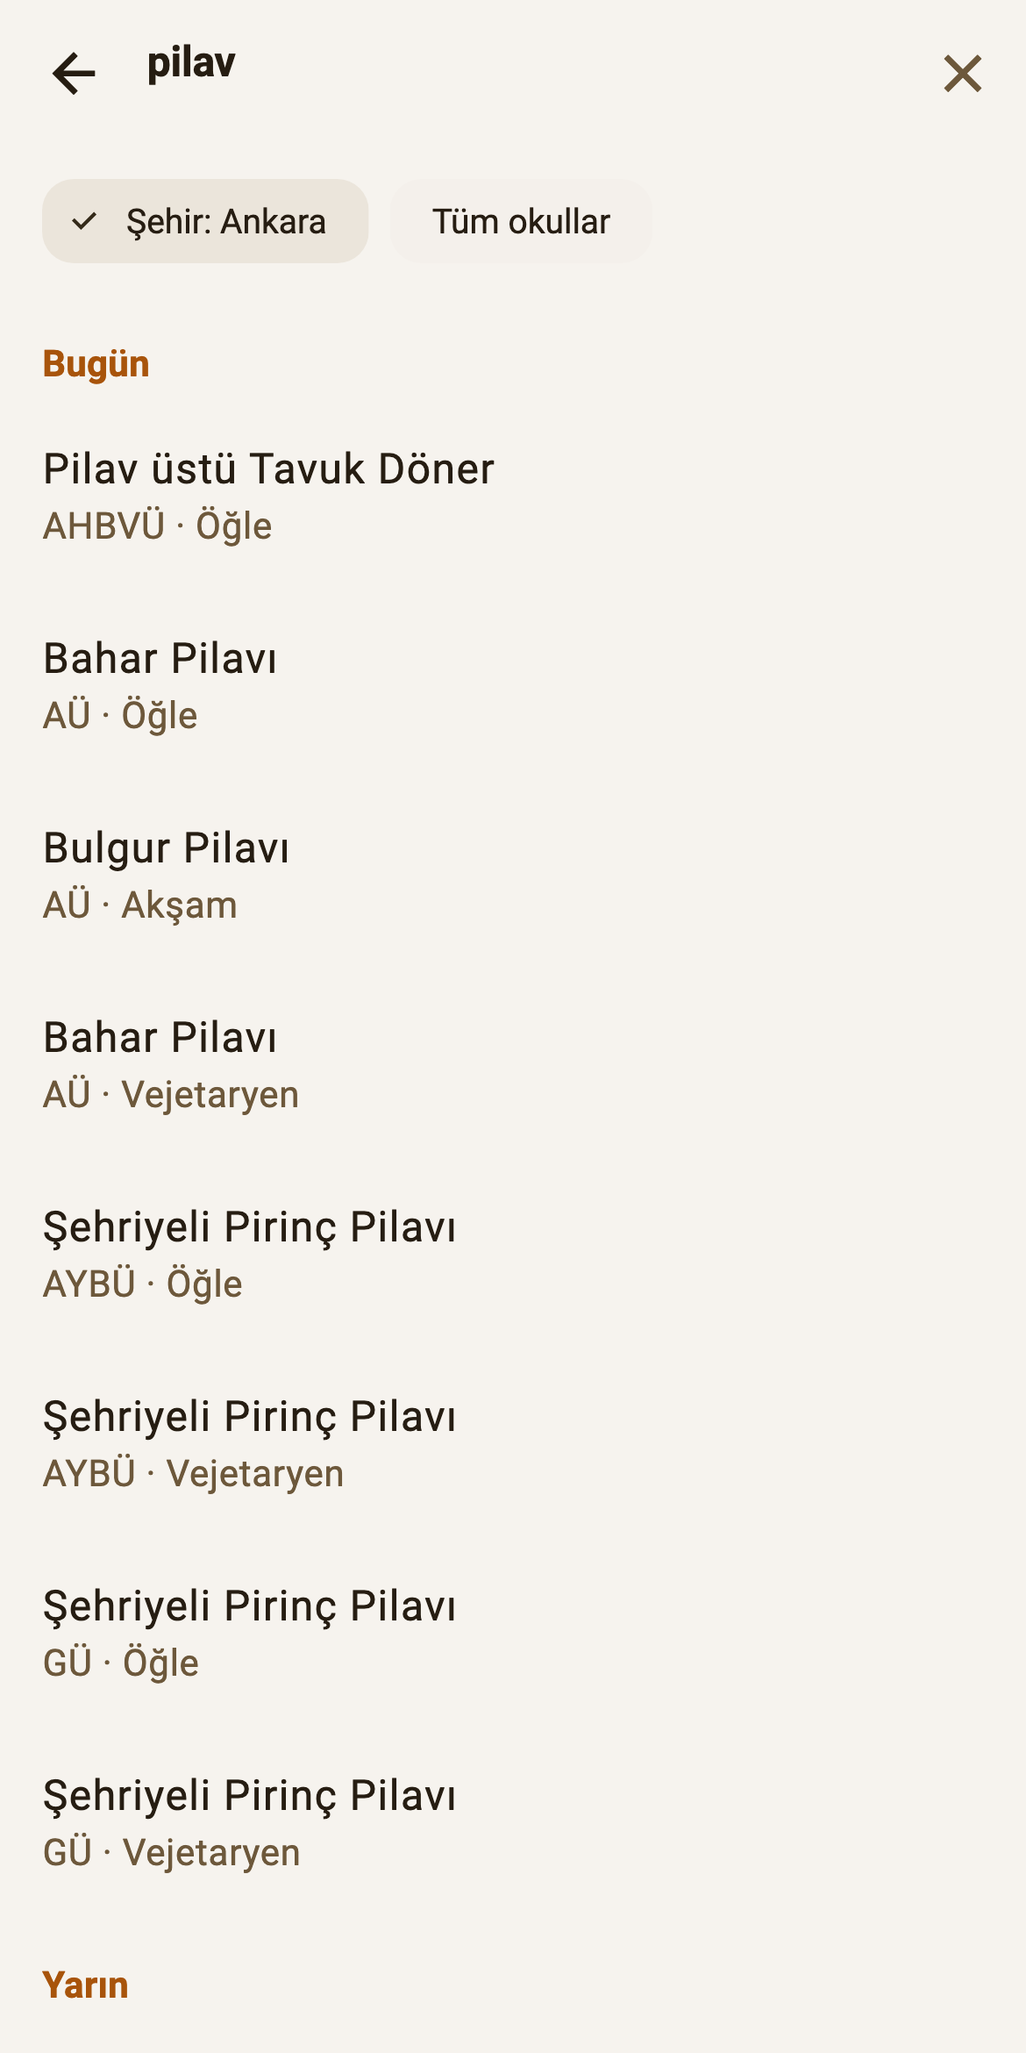
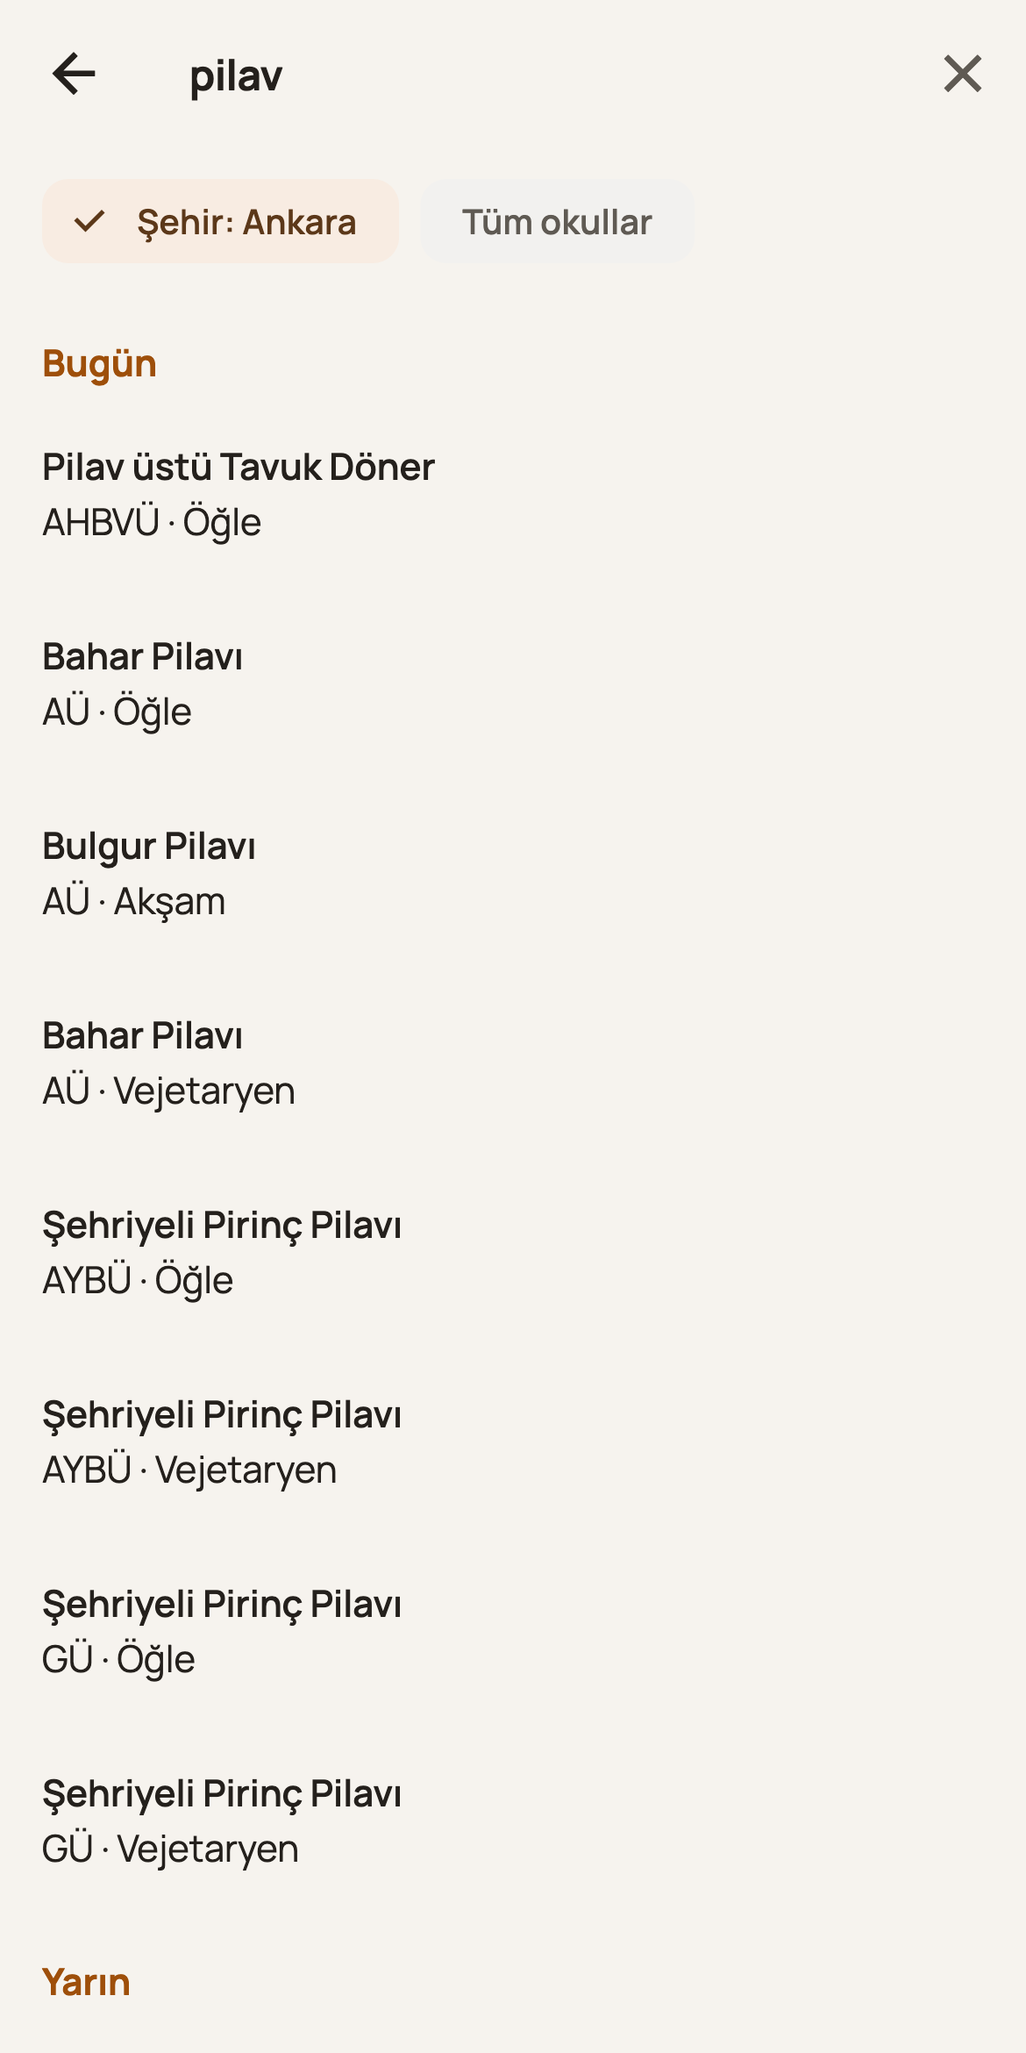
Son cila: tema imzası uygulamada, mağaza görselleri yeni temayla (deneme notu olmadan), metinler güncellendi

diff --git a/app/test/tema_imza_uygulama_test.dart b/app/test/tema_imza_uygulama_test.dart
@@ -1,0 +1,116 @@
+import 'package:flutter/material.dart';
+import 'package:flutter_test/flutter_test.dart';
+import 'package:yemekhane/models.dart';
+import 'package:yemekhane/tema.dart';
+import 'package:yemekhane/widgets/durum_ekranlari.dart';
+import 'package:yemekhane/widgets/gun_secici.dart';
+import 'package:yemekhane/widgets/ogun_karti.dart';
+
+Widget sar(ThemeData t, Widget c, {double olcek = 1}) => MaterialApp(
+      theme: t,
+      home: MediaQuery(
+        data: MediaQueryData(textScaler: TextScaler.linear(olcek)),
+        child: Scaffold(body: c),
+      ),
+    );
+
+const _modlar = [
+  (Brightness.light, false),
+  (Brightness.dark, false),
+  (Brightness.dark, true),
+];
+
+void main() {
+  testWidgets('GunBasligi: imza simgesi görünür, semantik ağacın dışında',
+      (tester) async {
+    final palet = temaRengiBul('ask');
+    await tester.pumpWidget(sar(
+        temaUret(palet, Brightness.light),
+        GunBasligi(
+            tarihler: const ['2026-11-08', '2026-11-09'],
+            secili: '2026-11-08',
+            bugun: '2026-11-08',
+            degisti: (_) {})));
+    final f = find.byKey(const ValueKey('gun-imza'));
+    expect(f, findsOneWidget);
+    expect(tester.widget<Icon>(f).icon, Icons.favorite_rounded);
+    expect(find.ancestor(of: f, matching: find.byType(ExcludeSemantics)),
+        findsWidgets);
+  });
+
+  testWidgets('GunBasligi 320 px ve 2x yazıda taşmaz', (tester) async {
+    tester.view.physicalSize = const Size(320, 640);
+    tester.view.devicePixelRatio = 1;
+    addTearDown(tester.view.reset);
+    for (final p in temaRenkleri) {
+      await tester.pumpWidget(sar(
+          temaUret(p, Brightness.light),
+          GunBasligi(
+              tarihler: const ['2026-11-08', '2026-11-09'],
+              secili: '2026-11-09',
+              bugun: '2026-11-08',
+              degisti: (_) {}),
+          olcek: 2));
+      expect(tester.takeException(), isNull, reason: p.kimlik);
+    }
+  });
+
+  testWidgets('YemekYok özel temada degrade zemin kullanır', (tester) async {
+    for (final p in temaRenkleri) {
+      await tester.pumpWidget(sar(temaUret(p, Brightness.light),
+          const YemekYok(baslik: 'Menü yok', alt: 'Alt', ikon: Icons.event)));
+      await tester.pumpAndSettle();
+      final kap = tester
+          .widgetList<Container>(find.byType(Container))
+          .map((c) => c.decoration)
+          .whereType<BoxDecoration>()
+          .where((d) => d.shape == BoxShape.circle)
+          .first;
+      expect(kap.gradient != null, p.ozel, reason: p.kimlik);
+    }
+  });
+
+  testWidgets('OgunOzeti özel temada degrade, 320 px ve 2x yazıda taşmaz',
+      (tester) async {
+    tester.view.physicalSize = const Size(320, 640);
+    tester.view.devicePixelRatio = 1;
+    addTearDown(tester.view.reset);
+    for (final p in temaRenkleri) {
+      await tester.pumpWidget(sar(
+          temaUret(p, Brightness.dark),
+          const SingleChildScrollView(
+              child: OgunOzeti(
+                  kcal: 850,
+                  fiyat: 45,
+                  hedef: 2200,
+                  ogleAksamKcal: 1500,
+                  saat: ServisSaati('11:30-14:00', false))),
+          olcek: 2));
+      await tester.pumpAndSettle();
+      expect(tester.takeException(), isNull, reason: p.kimlik);
+      final d = tester
+          .widgetList<Container>(find.byType(Container))
+          .map((c) => c.decoration)
+          .whereType<BoxDecoration>()
+          .firstWhere((d) => d.borderRadius == BorderRadius.circular(20));
+      expect(d.gradient != null, p.ozel, reason: p.kimlik);
+    }
+  });
+
+  test('imza yazı rengi, zemin ve degrade uçlarında AA (13 tema x 3 mod)', () {
+    for (final p in temaRenkleri) {
+      for (final (mod, siyah) in _modlar) {
+        final t = temaUret(p, mod, amoled: siyah);
+        final imza = t.extension<TemaImzasi>()!;
+        final uclar = <Color>[
+          imza.zemin,
+          ...?imza.degrade?.colors,
+        ];
+        for (final u in uclar) {
+          expect(kontrastOrani(imza.zeminUstu, u), greaterThanOrEqualTo(4.5),
+              reason: '${p.kimlik} $mod siyah=$siyah');
+        }
+      }
+    }
+  });
+}

diff --git a/app/tool/magaza_ekranlari_test.dart b/app/tool/magaza_ekranlari_test.dart
@@ -48,6 +48,13 @@ File? _yerelDosya(Uri adres) {
   return f.existsSync() ? f : null;
 }
 
+/// Mağaza görüntülerinde "Deneme modu" notu görünmesin: yerel depo, ama çevrimiçi gibi davranır.
+/// Uydurma puan ya da yorum göstermez (ekranda "Henüz oy yok" görünür).
+class _MagazaDepo extends YerelDepo {
+  @override
+  bool get cevrimici => true;
+}
+
 class _Cevap extends Stream<List<int>> implements HttpClientResponse {
   _Cevap(this._bayt, this.statusCode);
   final Uint8List _bayt;
@@ -118,6 +125,11 @@ Future<void> _fontlariYukle() async {
     ..addFont(Future.value(ByteData.sublistView(
         File('$_fontlar/MaterialIcons-Regular.otf').readAsBytesSync())));
   await ikon.load();
+  // uygulamanın kendi yazı tipi (Manrope); testte rootBundle yerine doğrudan dosyadan yüklenir
+  final manrope = FontLoader('Manrope')
+    ..addFont(Future.value(ByteData.sublistView(
+        File('assets/fonts/Manrope-Variable.ttf').readAsBytesSync())));
+  await manrope.load();
 }
 
 /// Ağdan gelmesi gereken her şey (menü, fotoğraf) yerel ../data dosyalarından.
@@ -154,11 +166,13 @@ Future<void> _kaydet(WidgetTester t, String ad) async {
   });
 }
 
-Future<void> _ac(WidgetTester t, {required bool koyu, Widget? ana}) async {
+Future<void> _ac(WidgetTester t,
+    {required bool koyu, Widget? ana, String palet = 'safran'}) async {
   t.view.physicalSize = const Size(390, 780);
   t.view.devicePixelRatio = 1;
   _kok = GlobalKey();
-  final ayar = TemaAyari(mod: koyu ? ThemeMode.dark : ThemeMode.light);
+  final ayar = TemaAyari(
+      mod: koyu ? ThemeMode.dark : ThemeMode.light, renk: temaRengiBul(palet));
   final depo = Depo(istemci: _yerelIstemci());
   await depo.universiteSec('ankara');
   final favoriler = FavoriDeposu();
@@ -172,7 +186,7 @@ Future<void> _ac(WidgetTester t, {required bool koyu, Widget? ana}) async {
               AnaSayfa(
                   temaAyari: ayar,
                   depo: depo,
-                  geriBildirim: YerelDepo(),
+                  geriBildirim: _MagazaDepo(),
                   favoriler: favoriler,
                   kaloriHedefi: KaloriHedefi(),
                   simdi: () => DateTime.utc(2026, 11, 4, 11, 20)))));
@@ -229,10 +243,12 @@ void main() {
     await _kaydet(t, '04-haftalik-menu');
   });
 
-  testWidgets('05 tema (koyu)', (t) async {
-    await _ac(t, koyu: true);
+  testWidgets('05 tema seçici (özel temalar)', (t) async {
+    await _ac(t, koyu: false, palet: 'ask');
     await _menuden(t, 'Tema');
-    await _kaydet(t, '05-tema-secici-koyu');
+    await t.ensureVisible(find.text('Özel temalar'));
+    await _bekle(t, 4);
+    await _kaydet(t, '05-tema-secici-ozel');
   });
 
   testWidgets('06 ayarlar', (t) async {
@@ -242,7 +258,7 @@ void main() {
   });
 
   testWidgets('07 ana ekran koyu', (t) async {
-    await _ac(t, koyu: true);
-    await _kaydet(t, '07-ana-ekran-koyu');
+    await _ac(t, koyu: true, palet: 'gece_yarisi');
+    await _kaydet(t, '07-ana-ekran-gece-yarisi');
   });
 }

diff --git a/app/tool/magaza_gorseli_test.dart b/app/tool/magaza_gorseli_test.dart
@@ -1,7 +1,7 @@
 // Google Play 1024x500 öne çıkan görsel üreticisi. `flutter test` bunu çalıştırmaz (tool/ klasörü); yenilemek için
 // app klasöründe: ~/development/flutter/bin/flutter test tool/magaza_gorseli_test.dart
 // Safran zemin, uygulama ikonu (web/icons/Icon-512.png, tool/ikon_uret_test.dart üretir), ad ve slogan.
-// Test ortamının varsayılan yazı tipi (Ahem) kutu çizdiğinden Roboto, Flutter önbelleğindeki dosyalardan yüklenir.
+// Test ortamının varsayılan yazı tipi (Ahem) kutu çizdiğinden Manrope uygulama varlıklarından dosyalardan yüklenir.
 // Çıktı: ../magaza/gorseller/one-cikan-gorsel-1024x500.png
 import 'dart:io';
 import 'dart:ui' as ui;
@@ -13,9 +13,6 @@ import 'package:yemekhane/tema.dart';
 
 import 'opak_png.dart';
 
-final _fontlar =
-    '${Platform.environment['HOME']}/development/flutter/bin/cache/artifacts/material_fonts';
-
 Color _ton(double ton, double doygunluk, double aciklik) =>
     HSLColor.fromAHSL(1, ton % 360, doygunluk, aciklik).toColor();
 
@@ -25,7 +22,7 @@ void _yaz(Canvas c, String metin, Offset yer, double boyut, FontWeight kalinlik,
       text: TextSpan(
           text: metin,
           style: TextStyle(
-              fontFamily: 'Roboto',
+              fontFamily: 'Manrope',
               fontSize: boyut,
               fontWeight: kalinlik,
               color: renk,
@@ -37,12 +34,11 @@ void _yaz(Canvas c, String metin, Offset yer, double boyut, FontWeight kalinlik,
 
 void main() {
   testWidgets('öne çıkan görsel 1024x500', (t) async {
-    final roboto = FontLoader('Roboto');
-    for (final ad in ['Regular', 'Medium', 'Bold']) {
-      roboto.addFont(Future.value(ByteData.sublistView(
-          File('$_fontlar/Roboto-$ad.ttf').readAsBytesSync())));
-    }
-    await roboto.load();
+    // uygulamanın kendi yazı tipi (Manrope)
+    final manrope = FontLoader('Manrope')
+      ..addFont(Future.value(ByteData.sublistView(
+          File('assets/fonts/Manrope-Variable.ttf').readAsBytesSync())));
+    await manrope.load();
     await t.runAsync(() async {
       final palet = temaRenkleri.first;
       final marka = _ton(palet.ton, palet.doygunluk, 0.50);

diff --git a/app/lib/widgets/gun_secici.dart b/app/lib/widgets/gun_secici.dart
@@ -4,6 +4,7 @@ import 'package:flutter/material.dart';
 
 import '../config.dart';
 import '../favoriler.dart' show favoriGunEtiketi;
+import '../tema.dart' show TemaImzasi;
 
 /// Üstte büyük "Bugün / Cuma" başlığı, altında tek satırlık tarih ("2 Ekim 2026 · Cuma") ve yanlarda önceki /
 /// sonraki gün okları. Dar ekranda (320 dp) ya da büyük yazıda iki satır da sarmaz, sığacak kadar küçülür;
@@ -36,10 +37,20 @@ class GunBasligi extends StatelessWidget {
             FittedBox(
               fit: BoxFit.scaleDown,
               // "Bugün" / "Yarın" / gün adı; fark UTC takvim günleriyle hesaplanır (yaz saati geçişinde sapmaz)
-              child: Text(favoriGunEtiketi(secili, bugun),
-                  maxLines: 1,
-                  style: tema.textTheme.headlineSmall
-                      ?.copyWith(fontWeight: FontWeight.w800)),
+              child: Row(mainAxisSize: MainAxisSize.min, children: [
+                // temanın küçük imzası: süs, ekran okuyucuya görünmez
+                ExcludeSemantics(
+                  child: Icon(TemaImzasi.of(context).simge,
+                      key: const ValueKey('gun-imza'),
+                      size: 20,
+                      color: TemaImzasi.of(context).renk),
+                ),
+                const SizedBox(width: 8),
+                Text(favoriGunEtiketi(secili, bugun),
+                    maxLines: 1,
+                    style: tema.textTheme.headlineSmall
+                        ?.copyWith(fontWeight: FontWeight.w800)),
+              ]),
             ),
             FittedBox(
               fit: BoxFit.scaleDown,

diff --git a/app/lib/widgets/ogun_karti.dart b/app/lib/widgets/ogun_karti.dart
@@ -4,6 +4,7 @@ import '../favoriler.dart';
 import '../geri_bildirim.dart';
 import '../kalori_hedefi.dart';
 import '../models.dart';
+import '../tema.dart' show TemaImzasi;
 import '../reklam/reklam_karti.dart';
 import '../reklam/reklam_yoneticisi.dart';
 import '../reklam/uzak_ayar.dart' show yerlesimAna;
@@ -423,7 +424,8 @@ class OgunOzeti extends StatelessWidget {
       return const SizedBox.shrink();
     }
     final tema = Theme.of(context);
-    final on = tema.colorScheme.onPrimaryContainer;
+    final imza = TemaImzasi.of(context);
+    final on = imza.zeminUstu;
     final hedefli = hedef != null && hedef! > 0 && (kcal ?? 0) > 0;
     Widget kucuk(IconData ikon, String metin) =>
         Row(mainAxisSize: MainAxisSize.min, children: [
@@ -440,7 +442,8 @@ class OgunOzeti extends StatelessWidget {
       margin: const EdgeInsets.only(bottom: 4),
       padding: const EdgeInsets.all(16),
       decoration: BoxDecoration(
-          color: tema.colorScheme.primaryContainer,
+          color: imza.zemin,
+          gradient: imza.degrade,
           borderRadius: BorderRadius.circular(20)),
       child: Column(crossAxisAlignment: CrossAxisAlignment.start, children: [
         if (kcal != null)

diff --git a/app/lib/widgets/durum_ekranlari.dart b/app/lib/widgets/durum_ekranlari.dart
@@ -1,6 +1,7 @@
 import 'package:flutter/material.dart';
 
 import '../models.dart';
+import '../tema.dart' show TemaImzasi;
 import 'ogun_bilgi.dart';
 
 /// Yemek verilmeyen gün / öğün için sade bilgi ekranı.
@@ -13,6 +14,7 @@ class YemekYok extends StatelessWidget {
   @override
   Widget build(BuildContext context) {
     final tema = Theme.of(context);
+    final imza = TemaImzasi.of(context);
     return ListView(
       // kısa içerikte de aşağı çekip yenilenebilsin
       physics: const AlwaysScrollableScrollPhysics(),
@@ -24,9 +26,9 @@ class YemekYok extends StatelessWidget {
             height: 112,
             decoration: BoxDecoration(
                 shape: BoxShape.circle,
-                color: tema.colorScheme.primaryContainer),
-            child: Icon(ikon,
-                size: 52, color: tema.colorScheme.onPrimaryContainer),
+                color: imza.degrade == null ? imza.zemin : null,
+                gradient: imza.degrade),
+            child: Icon(ikon, size: 52, color: imza.zeminUstu),
           ),
         ),
         const SizedBox(height: 24),

diff --git a/magaza/LISTE.md b/magaza/LISTE.md
@@ -45,7 +45,7 @@ PUAN VE YORUM
 • Başkasının yorumunu ve yazarını bildir ya da kişiyi engelle; yorum ve puanlarını tek dokunuşla sil
 
 KİŞİSELLEŞTİR
-• Açık, koyu ve siyah tema; 8 renk paleti
+• Açık, koyu ve siyah mod; 13 tema: 8 temel renk paleti ve Aşk, Lokum, Kahve, Bahar, Gece Yarısı gibi özel temalar (her birinin kendi küçük simgesi var)
 • İsteğe bağlı günlük kalori hedefi: öğünün hedefine oranını gösterir
 • İsteğe bağlı günlük menü bildirimi (varsayılan kapalı, saatini sen seçersin)
 
@@ -58,7 +58,7 @@ Uygulama ücretsizdir ve reklam içerir: ana ekranda öğün kartının altında
 Okulun listede yok mu? Tanıtım sitesindeki yorumlardan iste.
 ```
 
-Karakter sayımı (8 Kasım 2026): kısa açıklama 78/80; tam açıklama 4000 sınırının çok altında. Eklemeden önce denetle: "8 renk paleti", "Siyah tema", "tüm okullar araması", "bildirim" ve "paylaş" özelliklerinin sürümde olduğu doğrulandı (kod ve testler). Okul sayısı bilerek yazılmadı: liste büyüyor.
+Karakter sayımı (8 Kasım 2026): kısa açıklama 78/80; tam açıklama 4000 sınırının çok altında. Eklemeden önce denetle: "13 tema", "Siyah mod", "tüm okullar araması", "bildirim" ve "paylaş" özelliklerinin sürümde olduğu doğrulandı (kod ve testler). Okul sayısı bilerek yazılmadı: liste büyüyor.
 
 ## Görseller (magaza/ klasöründe)
 
@@ -68,7 +68,7 @@ Karakter sayımı (8 Kasım 2026): kısa açıklama 78/80; tam açıklama 4000 s
 | Öne çıkan görsel | `gorseller/one-cikan-gorsel-1024x500.png` | 1024x500, alfasız 24 bit PNG |
 | Telefon ekran görüntüleri (en az 2, en çok 8) | `ekranlar/01-...` ile `07-...` | 1170x2340 (oran 2:1), alfasız 24 bit PNG |
 
-Ekran görüntüleri ve öne çıkan görsel **alfa kanalsız 24 bit PNG** (RGB, IHDR renk tipi 2) olmalıdır; Google bu alanlarda JPEG ya da alfasız 24 bit PNG ister (https://support.google.com/googleplay/android-developer/answer/9866151). Üreticiler (`app/tool/magaza_ekranlari_test.dart`, `app/tool/magaza_gorseli_test.dart`) artık beyaz opak zemine birleştirilmiş RGB yazar (`app/tool/opak_png.dart`); `app/test/yayin_duzeltme_test.dart` bütün mağaza PNG'lerinin renk tipini denetler. Simge (`ikon-512x512.png`) 32 bit PNG olabilir (alfa serbest). Ekran görüntüleri gerçek uygulamanın gerçek verisiyle (Ankara Üniversitesi, 4 Kasım 2026 menüsü) çizildi; `app/tool/magaza_ekranlari_test.dart` ile yeniden üretilir. Her kenar 320-3840 px ve uzun kenar kısa kenarın en çok 2 katı olmalı: 1170x2340 tam 2:1 olduğu için sınırda ve geçerli. Önerilen sıra: 01 ana ekran, 02 yemek ayrıntısı, 04 haftalık menü, 03 yemek arama, 07 ana ekran (koyu), 05 tema, 06 ayarlar.
+Ekran görüntüleri ve öne çıkan görsel **alfa kanalsız 24 bit PNG** (RGB, IHDR renk tipi 2) olmalıdır; Google bu alanlarda JPEG ya da alfasız 24 bit PNG ister (https://support.google.com/googleplay/android-developer/answer/9866151). Üreticiler (`app/tool/magaza_ekranlari_test.dart`, `app/tool/magaza_gorseli_test.dart`) artık beyaz opak zemine birleştirilmiş RGB yazar (`app/tool/opak_png.dart`); `app/test/yayin_duzeltme_test.dart` bütün mağaza PNG'lerinin renk tipini denetler. Simge (`ikon-512x512.png`) 32 bit PNG olabilir (alfa serbest). Ekran görüntüleri gerçek uygulamanın gerçek verisiyle (Ankara Üniversitesi, 4 Kasım 2026 menüsü) çizildi; `app/tool/magaza_ekranlari_test.dart` ile yeniden üretilir. Her kenar 320-3840 px ve uzun kenar kısa kenarın en çok 2 katı olmalı: 1170x2340 tam 2:1 olduğu için sınırda ve geçerli. Ekranlar (8 Kasım 2026, yeni Manrope yazı tipi ve temalarla): 01 ana ekran (Safran, açık), 02 yemek ayrıntısı, 03 yemek arama, 04 haftalık menü, 05 tema seçici ("Özel temalar", Aşk seçili), 06 ayarlar, 07 ana ekran (Gece Yarısı, koyu). Ekranlarda reklam kartı ve DEBUG şeridi yoktur. Önerilen sıra: 01, 02, 04, 03, 07, 05, 06.
 7 inç / 10 inç tablet ekran görüntüsü zorunlu değildir (tablet desteği isteğe bağlıdır).
 
 ## İçerik derecelendirme anketi (IARC) önerilen yanıtlar

diff --git a/README.md b/README.md
@@ -348,7 +348,7 @@ Flutter uygulaması (`app/`), Android APK olarak dağıtılır. Özellikler:
 * **Haftalık menü ve paylaşım:** haftanın menüsü tek ekranda; öğün, gün ya da hafta metin olarak paylaşılır/panoya kopyalanır.
 * **Günlük menü bildirimi (isteğe bağlı, varsayılan kapalı):** Ayarlar'dan açılır, saati seçilir; favori menüdeyse öne çıkarır. Bildirim, uygulamanın son açıldığı andaki menüyle planlanır.
 * **Kalori hedefi (isteğe bağlı):** öğünün günlük hedefin yüzde kaçı olduğunu gösterir (genel bilgidir, tıbbi tavsiye değildir).
-* **Görünüm:** 8 elle ayarlanmış palet (Safran varsayılan) ve Sistem/Açık/Koyu/Siyah mod; tüm paletler WCAG AA kontrast testinden geçer. Arayüz ve sistem metinleri Türkçedir.
+* **Görünüm:** 13 tema: 8 elle ayarlanmış temel palet (Safran varsayılan) ve 5 özel tema (Aşk, Lokum, Kahve, Bahar, Gece Yarısı; her birinin küçük simgesi ana ekran başlığında, boş durum ekranında ve öğün özetinde görünür), Manrope yazı tipi, Sistem/Açık/Koyu/Siyah mod; tüm temalar WCAG AA kontrast testinden geçer. Arayüz ve sistem metinleri Türkçedir.
 * **Puan ve yorumlar:** Firebase (anonim oturum); okumalar 5 dakika bellekte tutulur (kota), yenileme önbelleği boşaltır.
 * **Reklam (Google AdMob, rahatsız etmeyen, v2):** içerikle birlikte kayan, temaya uyan, "Reklam" etiketli yerel kartlar; ekran başına en çok 1. Yerleşimler: ana ekranda öğün kartının altı (uzun ekranda görselli orta şablon), haftalık menüde 3. günden sonra, yemek aramada 5. sonuçtan sonra (en az 8 sonuç), yemek ayrıntısının en altı. Tam ekran / açılış / sesli video / yapışkan banner / yemek satırları arasında reklam yok; ilk açılış günü + 2 gün reklamsız; oturumda en çok 20 yükleme; Google rıza formu (UMP). İsteğe bağlı ödüllü **"Reklamsız gün"**: kısa bir reklam izleyip 24 saat reklamsız (Ayarlar'da ve reklam kartında). Uzaktan ayar: `data/ayarlar.json` (robot dokunmaz) ile yayından sonra reklamı kapatma/açma, yerleşim seçme. Gerçek birim kimlikleri `--dart-define=ADMOB_NATIVE_ANDROID=...` ve `--dart-define=ADMOB_ODULLU_ANDROID=...` ile verilir; yerel kimlik yoksa release'te reklam tamamen kapalıdır, ödüllü kimlik yoksa yalnızca "Reklamsız gün" gizlenir (debug'da Google test reklamı). Web'de reklam yok. Kurulum ve politikalar: `magaza/REKLAM.md`.
 
